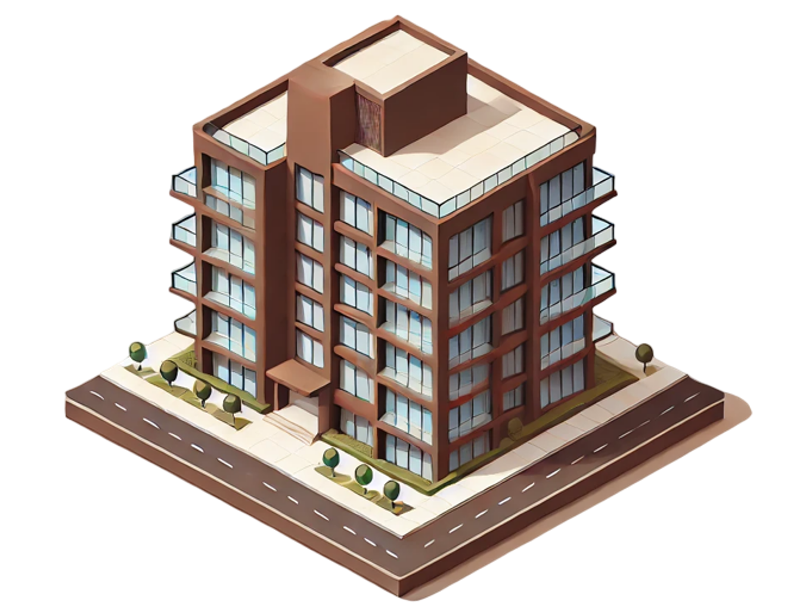
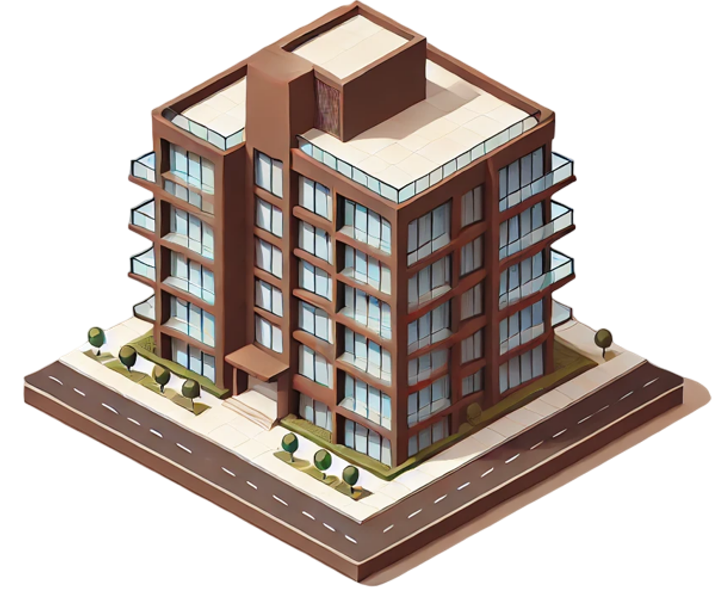
[chore] 사진 등 일부 수정
1. wonheung.png 사진 수정
2. Main.js와 Main.module.css 수정

diff --git a/src/pages/Main.module.css b/src/pages/Main.module.css
@@ -31,6 +31,7 @@
 /* 환영합니데이 */
 .welcomeMessage {
   text-align: center;
+  margin-right: 240px;
   margin-top: 40px;
   animation: slideDown 1.5s ease-in-out;
 }
@@ -48,17 +49,27 @@
   display: flex;
   justify-content: space-around;
   width: 70%;
+  align-items: flex-start;
+  margin-top: -180px;
+  margin-left: 40px;
 }
 
 .building {
   text-align: center;
   cursor: pointer;
   margin: 0 4px; /* 건물들 사이에 여백을 추가 */
+  width: 200px; /* 고정된 넓이 */
+  height: 300px; /* 고정된 높이 */
+  display: flex;
+  flex-direction: column;
+  justify-content: center;
+  align-items: center;
 }
 
 .building img {
   width: 300px;
   height: auto;
+  max-height: 300px;
 }
 
 .sensorInfo {
@@ -96,7 +107,7 @@
 .weatherInfo {
   background-color: #ffedc3; /* 오렌지색 배경 */
   border-radius: 12px; /* 둥근 모서리 */
-  padding: 40px; /* 박스 내부 여백 */
+  padding: 32px; /* 박스 내부 여백 */
   box-shadow: 0 4px 8px rgba(0, 0, 0, 0.1); /* 부드러운 그림자 */
   width: 100%; /* 박스가 부모의 너비를 차지하도록 */
   color: black; /* 글씨 색상을 흰색으로 */
@@ -105,10 +116,17 @@
 .sensorLogs {
   background-color: #ffd9b7; /* 오렌지색 배경 */
   border-radius: 12px; /* 둥근 모서리 */
-  padding: 40px; /* 박스 내부 여백 */
+  padding: 32px; /* 박스 내부 여백 */
   box-shadow: 0 4px 8px rgba(0, 0, 0, 0.1); /* 부드러운 그림자 */
   width: 100%; /* 박스가 부모의 너비를 차지하도록 */
   color: black; /* 글씨 색상을 흰색으로 */
+}
+
+/* ping icon */
+.pingIcon {
+  margin-right: 10px;
+  font-size: 24px;
+  color: black;
 }
 
 .weatherInfo h3 {

diff --git a/src/pages/Main.js b/src/pages/Main.js
@@ -2,6 +2,7 @@ import React, { useState } from "react";
 import Header from "../components/common/Header/Header";
 import { useNavigate } from "react-router-dom";
 import styles from "./Main.module.css";
+import { FaMapMarkedAlt } from "react-icons/fa";
 
 /*처음 들어가면 나오는 화면*/
 
@@ -88,7 +89,10 @@ function Main() {
           {/* 오른쪽 날씨 및 로그 섹션 */}
           <div className={styles.weatherAndLogs}>
             <div className={styles.weatherInfo}>
-              <h3>서울 중구 필동 1가</h3>
+              <h3>
+                <FaMapMarkedAlt className={styles.pingIcon} />
+                서울 중구 필동 1가
+              </h3>
               <p>32°C 흐리고 비</p>
               <p>체감온도: 34°C/24°C</p>
               <p>
